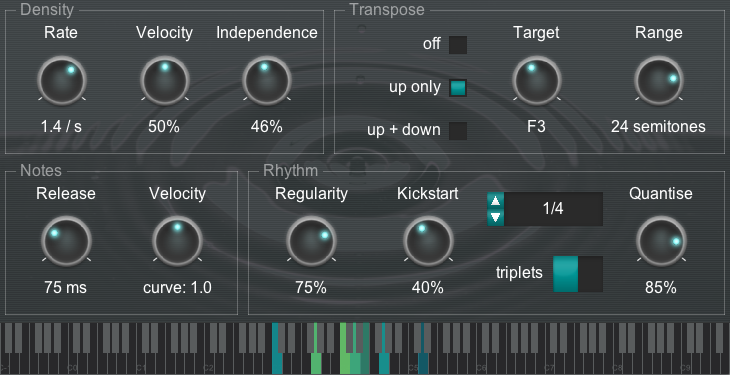
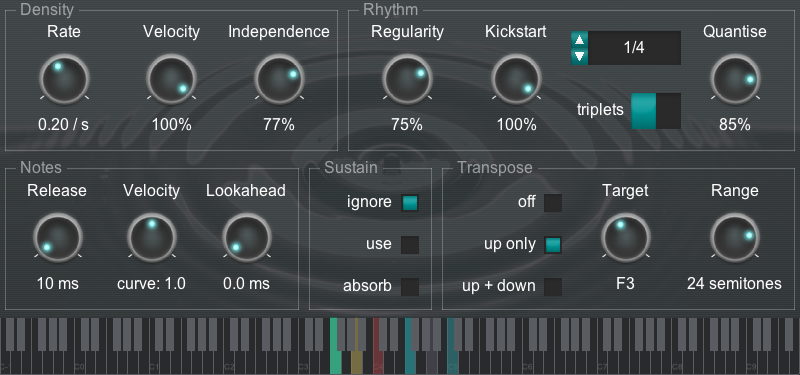
UI changes

diff --git a/index.html b/index.html
@@ -342,10 +342,10 @@ h3 {
 </div>
 <div class="reapack-package reapack-package-with-links" id="Droplets"><div class="reapack-links"><audio controls preload="none" src="audio-demos/Droplets-01.mp3"></audio><audio controls preload="none" src="audio-demos/Droplets-2.mp3"></audio></div><h1 id="droplets">Droplets</h1>
 <p>This effect re-plays the notes of a chord in a random fashion.  Each MIDI note in the input is triggered randomly over time.</p>
-<p>You can control the retriggering rate, and how much this is affected by velocity or the number of current notes (&quot;Independence&quot;).  You can let the final notes ring on after the input (&quot;Release&quot;), and change the velocity randomisation curve.</p>
-<p>You can also allow it to transpose the input up/down octaves, to move it to a target note range.  This (like everything else) is automatable, so your music can float up and down in pitch.</p>
+<p>You can control the retriggering rate, and how much this is affected by velocity or the number of current notes (&quot;Independence&quot;).  You can also allow it to transpose the input up/down octaves, to move it to a target note range.  This (like everything else) is automatable, so your music can float up and down in pitch.</p>
 <p><img src="doc/images/Droplets.png" alt="screenshot"></p>
-<p>In the &quot;Rhythm&quot; section, &quot;Regularity&quot; prevents notes from playing too soon after their previous instance - high settings produce patterns which evolve slowly over time.  &quot;Kickstart&quot; will play incoming notes immediately, with the specified probability.  &quot;Quantise&quot; lets you specify that notes can only occur near beat boundaries.</p>
+<p>&quot;Regularity&quot; prevents notes from playing too soon after their previous instance - high settings produce patterns which evolve slowly over time.  &quot;Kickstart&quot; will play incoming notes immediately, with the specified probability.  &quot;Quantise&quot; lets you specify that notes can only occur near beat boundaries.</p>
+<p>You can let the final notes ring on after the input (&quot;Release&quot;), and change the velocity randomisation curve, and how it reacts to the sustain pedal (ignore it, use it, or use it but don&#39;t send it on).</p>
 </div>
 <div class="reapack-package" id="Learning Sampler"><h1 id="learning-sampler">Learning Sampler</h1>
 <p>This sampler records samples from the incoming audio when in learning mode (selected by a controller switch), and plays them back when in playback mode.</p>

diff --git a/doc/Droplets.md b/doc/Droplets.md
@@ -2,10 +2,10 @@
 
 This effect re-plays the notes of a chord in a random fashion.  Each MIDI note in the input is triggered randomly over time.
 
-You can control the retriggering rate, and how much this is affected by velocity or the number of current notes ("Independence").  You can let the final notes ring on after the input ("Release"), and change the velocity randomisation curve.
-
-You can also allow it to transpose the input up/down octaves, to move it to a target note range.  This (like everything else) is automatable, so your music can float up and down in pitch.
+You can control the retriggering rate, and how much this is affected by velocity or the number of current notes ("Independence").  You can also allow it to transpose the input up/down octaves, to move it to a target note range.  This (like everything else) is automatable, so your music can float up and down in pitch.
 
 ![screenshot](doc/images/Droplets.png)
 
-In the "Rhythm" section, "Regularity" prevents notes from playing too soon after their previous instance - high settings produce patterns which evolve slowly over time.  "Kickstart" will play incoming notes immediately, with the specified probability.  "Quantise" lets you specify that notes can only occur near beat boundaries.
+"Regularity" prevents notes from playing too soon after their previous instance - high settings produce patterns which evolve slowly over time.  "Kickstart" will play incoming notes immediately, with the specified probability.  "Quantise" lets you specify that notes can only occur near beat boundaries.
+
+You can let the final notes ring on after the input ("Release"), and change the velocity randomisation curve, and how it reacts to the sustain pedal (ignore it, use it, or use it but don't send it on).
